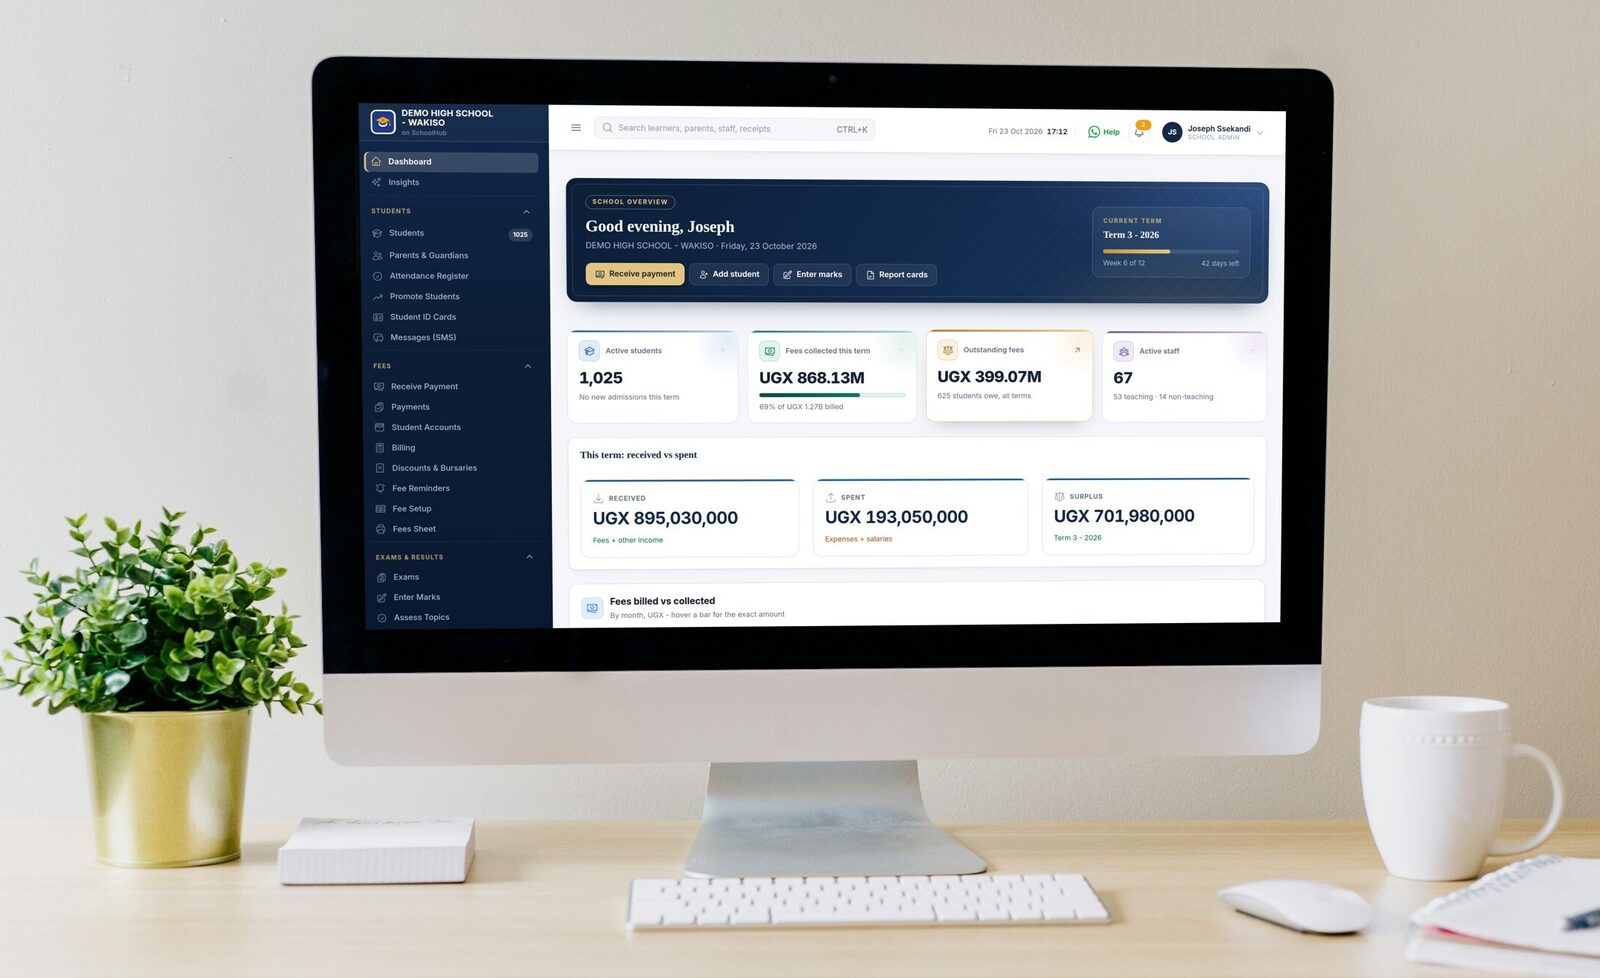
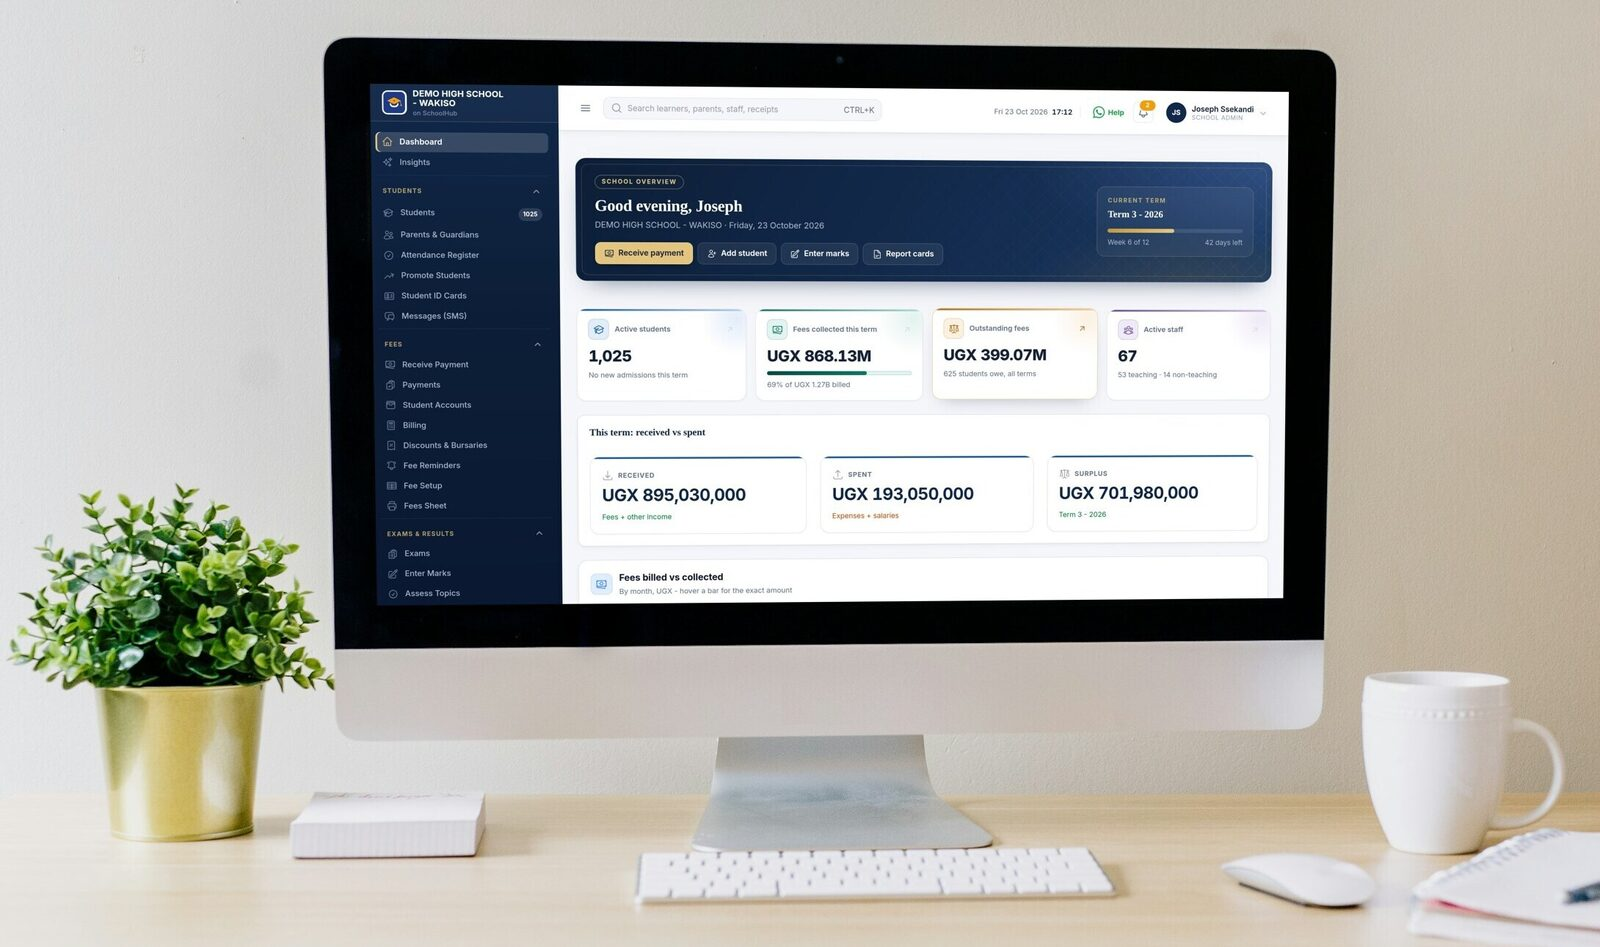
Home page: crop the desk photo to the computer and what is on the desk
Leaves out the empty wall above and the desk front and legs below; the
keyboard, mouse, plant and mug stay whole.

Claude-Session: https://claude.ai/code/session_01F8zZZK9xVNrKWwDNGHiypa

diff --git a/resources/views/landing.blade.php b/resources/views/landing.blade.php
@@ -110,7 +110,7 @@
                      dashboard below instead, which stacks to fit. --}}
                 <picture class="monitor-photo">
                     <source srcset="{{ asset('images/site/dashboard-desk.webp') }}" type="image/webp">
-                    <img src="{{ asset('images/site/dashboard-desk.jpg') }}" width="1600" height="978" alt="" fetchpriority="high">
+                    <img src="{{ asset('images/site/dashboard-desk.jpg') }}" width="1600" height="947" alt="" fetchpriority="high">
                 </picture>
                 <div class="window window-phone">
                     <div class="window-bar">
